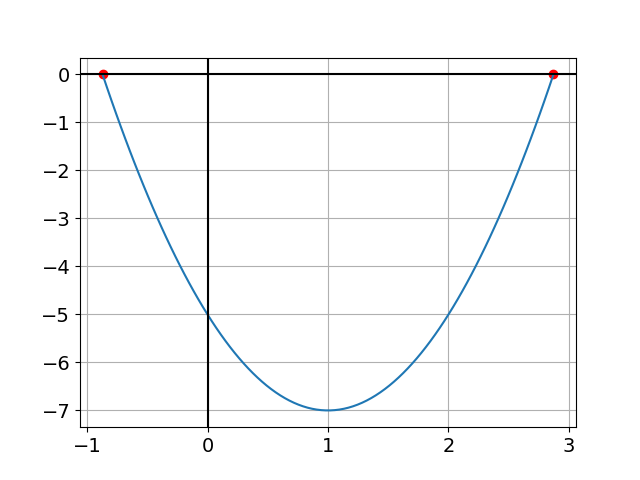
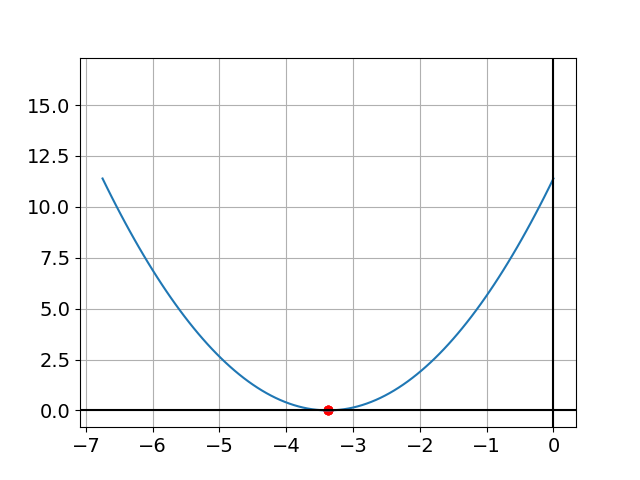
Added function
Added function

diff --git a/Tkinter12.01.21/Formula.py b/Tkinter12.01.21/Formula.py
@@ -12,11 +12,11 @@ root.geometry("700x800")
 def text_to_lbl(event):
     global d,x1,x2,x,a,b,c,rx1,rx2,x_list
     x_list = []
-    a=int(enta.get())
+    a=float(enta.get())
     enta.delete(0, END) #Очистка поля ввода
-    b=int(entb.get())
+    b=float(entb.get())
     entb.delete(0, END) #Очистка поля ввода
-    c=int(entc.get())
+    c=float(entc.get())
     entc.delete(0, END) #Очистка поля ввода
     d=(b**2)-4*a*c
     lbl1["text"] = d
@@ -37,8 +37,12 @@ def text_to_lbl(event):
     elif d==0:
         lblx1.grid_remove() #Удаление из сетки первого корня
         lblx2.grid_remove() #Удаление из сетки второго корня
-        x= (-b / 2*a) #Вычисляем один кореть
-        lblx["text"] = f"x: {x}" #Вывод одного корня
+        x1 = x2 = (-b / 2*a) #Вычисляем один кореть
+        rx1 = round(x1, 3)
+        rx2 = round(x2, 3)
+        x_list.append(rx1)
+        x_list.append(rx2)
+        lblx["text"] = f"x: {x1}" #Вывод одного корня
         lblx.grid() #Повторнный вывод если уровнение запущено заного
     else:
         lblx.grid_remove() #Удаление
@@ -58,9 +62,21 @@ def graf(event):
         xi = np.linspace(x_list[0], x_list[1], freq)
         if x_list[1]>x_list[0]:
             y = [-((a * t ** 2) + (b * t) + c) for t in xi]
+            plt.scatter(points, y0, color='red')
         else:
             plt.scatter(points, y0, color='red')
             y = [((a * t ** 2) + (b * t) + c) for t in xi]
+        if x_list[1]==x_list[0]:
+            if a>0:
+                xii = np.linspace(x_list[0], -x_list[1], freq)
+                yy=[t**2 for t in xii]
+                plt.scatter(points, y0, color='red')
+                plt.plot(xii+x_list[0],yy)
+            else:
+                xii = np.linspace(x_list[0], -x_list[1], freq)
+                yy = [-t ** 2 for t in xii]
+                plt.scatter(points, y0, color='red')
+                plt.plot(xii + x_list[0], yy)
         plt.plot(xi, y)
         plt.tick_params(axis='both', labelsize=14)
         plt.grid(True)
